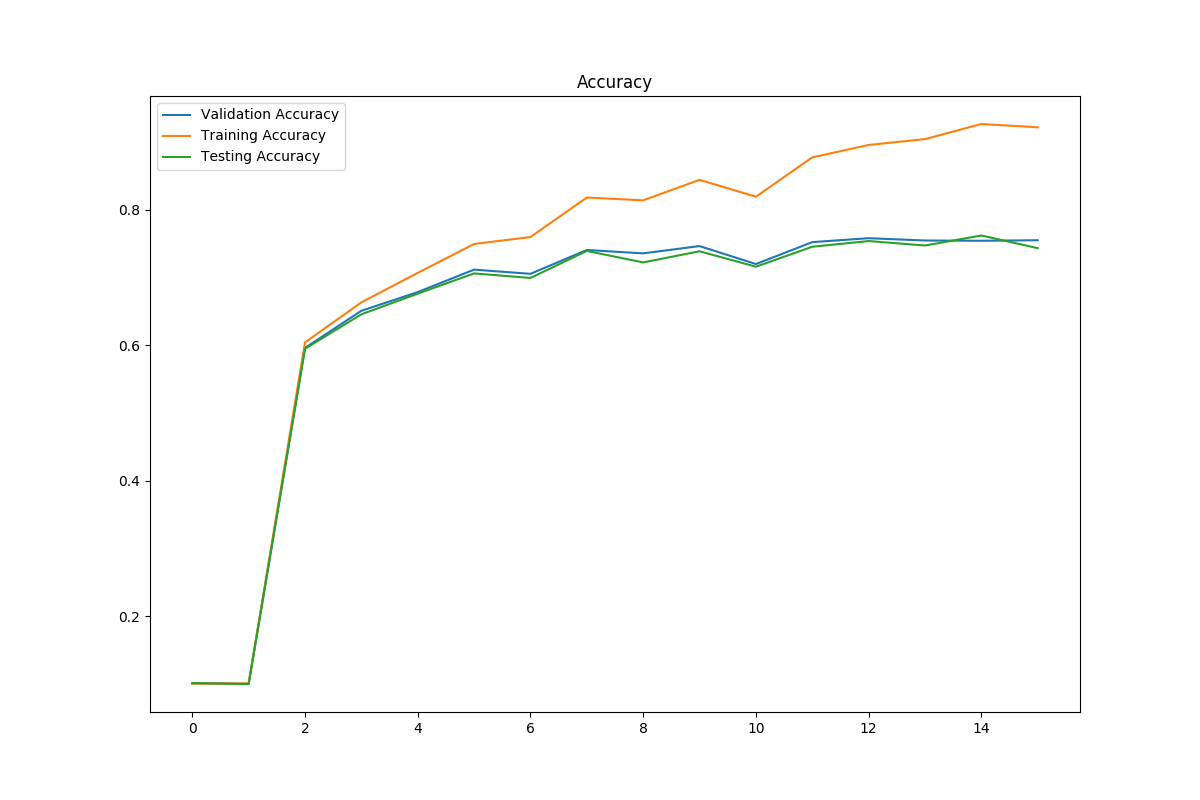
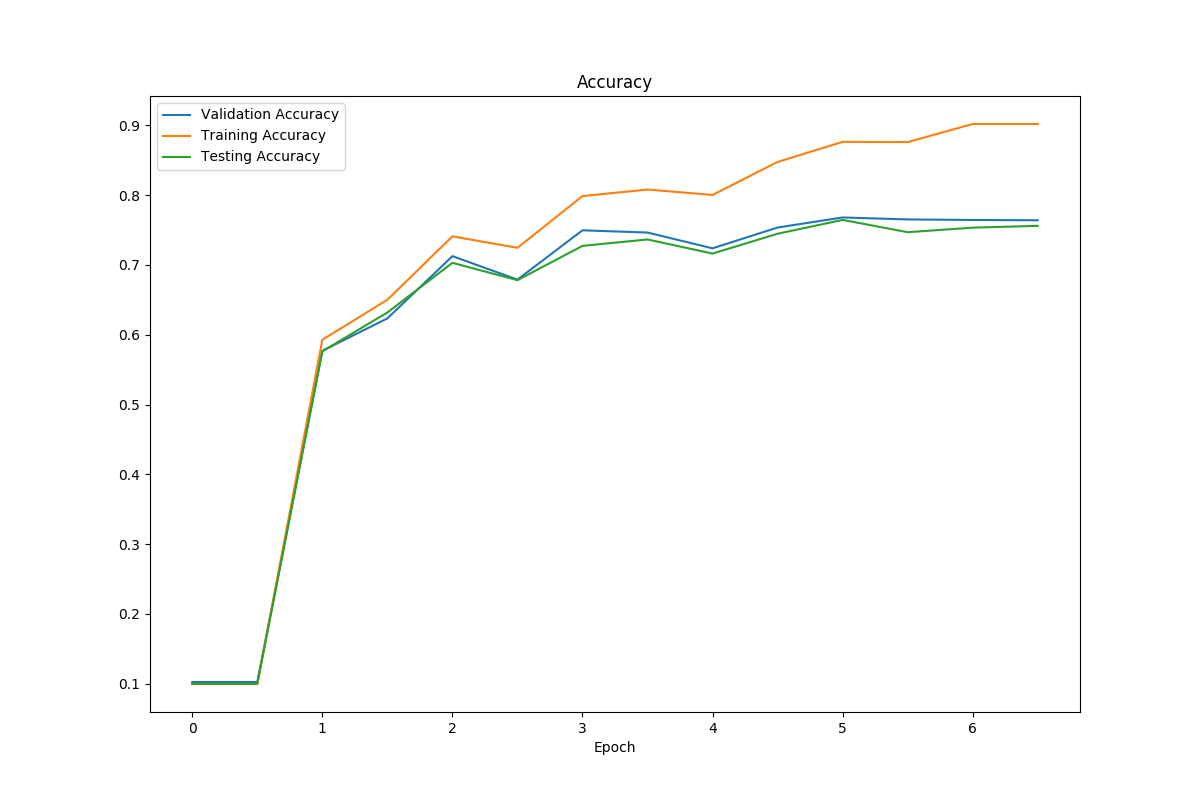
Completed ModelOne for task_2 and made some new plots

diff --git a/src/task_2.py b/src/task_2.py
@@ -4,6 +4,7 @@ import torch
 from torch import nn
 from dataloaders import load_cifar10
 from utils import to_cuda, compute_loss_and_accuracy
+from task_1 import LeNet
 
 class ModelTwo(nn.Module):
 
@@ -145,6 +146,140 @@ class ModelOne(nn.Module):
                 num_classes: Number of classes we want to predict (10)
         """
         super().__init__()
+        num_filters = 32  # Set number of filters in first conv layer
+        kernal_size = 5
+        padding_size = 2
+
+        conv_layers = []
+
+        conv_first = nn.Conv2d(
+                in_channels=image_channels,
+                out_channels=num_filters,
+                kernel_size=kernal_size,
+                stride=1,
+                padding=padding_size
+            )
+        
+        nn.init.xavier_uniform_(conv_first.weight)
+        conv_layers.append(conv_first)
+        
+        for i in range(1,6):
+            conv_layers.append(
+                nn.Conv2d(
+                in_channels=num_filters*(2**(i-1)),
+                out_channels=num_filters*(2**i),
+                kernel_size=kernal_size,
+                stride=1,
+                padding=padding_size
+                )
+            )
+            nn.init.xavier_uniform_(conv_layers[i].weight)
+
+        # Define the convolutional layers
+        self.feature_extractor = nn.Sequential(
+
+            conv_layers[0],
+        
+            torch.nn.Dropout2d(p=0.1, inplace=False),
+
+            torch.nn.BatchNorm2d(
+                num_filters*(2**0), 
+                eps=1e-05, 
+                momentum=0.1, 
+                affine=True, 
+                track_running_stats=True
+            ),
+            nn.ReLU(),
+
+            nn.MaxPool2d(kernel_size=2, stride=2),
+
+            conv_layers[1],
+            nn.ReLU(),
+            conv_layers[2],
+            nn.ReLU(),
+
+            nn.BatchNorm2d(
+                num_filters*(2**2), 
+                eps=1e-05, 
+                momentum=0.1, 
+                affine=True, 
+                track_running_stats=True
+            ),
+
+            nn.MaxPool2d(kernel_size=2, stride=2),
+
+            conv_layers[3],
+            nn.ReLU(),
+            conv_layers[4],
+            nn.ReLU(),
+
+            nn.BatchNorm2d(
+                num_filters*(2**4), 
+                eps=1e-05, 
+                momentum=0.1, 
+                affine=True, 
+                track_running_stats=True
+            ),
+
+            nn.MaxPool2d(kernel_size=2, stride=2)
+        )
+         # The output of feature_extractor will be [batch_size, num_filters*4, 4, 4]
+        self.num_output_features = (num_filters*(2**4)) * 4 * 4 # 2⁵ 2⁴ 2² 2² = 2^13
+        # Initialize our last fully connected layer
+        # Inputs all extracted features from the convolutional layers
+        # Outputs num_classes predictions, 1 for each class.
+        # There is no need for softmax activation function, as this is
+        # included with nn.CrossEntropyLoss
+        self.classifier = nn.Sequential(
+            nn.Linear(self.num_output_features, 2**8),
+            nn.ReLU(),
+            nn.Linear(2**8, 64),
+            nn.ReLU(),
+        
+            torch.nn.BatchNorm1d(
+                64, 
+                eps=1e-05, 
+                momentum=0.1, 
+                affine=True, 
+                track_running_stats=True
+            ),
+            
+            nn.Linear(64, num_classes)
+        )
+
+        #nn.init.xavier_uniform(self.feature_extractor.weight)
+        #torch.nn.init.xavier_uniform(self)
+        #self.feature_extractor.apply(nn.init.xavier_uniform)
+        #print(self)
+
+    def forward(self, x):
+        """
+        Performs a forward pass through the model
+        Args:
+            x: Input image, shape: [batch_size, 3, 32, 32]
+        """
+
+        # Run image through convolutional layers
+        x = self.feature_extractor(x)
+        # Reshape our input to (batch_size, num_output_features)
+        x = x.view(-1, self.num_output_features)
+        # Forward pass through the fully-connected layers.
+        x = self.classifier(x)
+        return x
+
+
+class ModelStride(nn.Module):
+
+    def __init__(self,
+                 image_channels,
+                 num_classes):
+        """
+            Is called when model is initialized.
+            Args:
+                image_channels. Number of color channels in image (3)
+                num_classes: Number of classes we want to predict (10)
+        """
+        super().__init__()
         num_filters = 32 # Set number of filters in all conv layers
         
 
@@ -239,15 +374,15 @@ class Trainer:
         # Define hyperparameters
         self.epochs = 100
         self.batch_size = 64
-        self.learning_rate = 1e-3
-        self.early_stop_count = 3
+        self.learning_rate = 1e-4
+        self.early_stop_count = 4
 
         # Architecture
 
         # Since we are doing multi-class classification, we use the CrossEntropyLoss
         self.loss_criterion = nn.CrossEntropyLoss()
         # Initialize the mode
-        self.model = ModelTwo(image_channels=3, num_classes=10)
+        self.model = ModelOne(image_channels=3, num_classes=10)
         # Transfer model to GPU VRAM, if possible.
         self.model = to_cuda(self.model)
 
@@ -257,10 +392,11 @@ class Trainer:
 
         # Load our dataset
         self.dataloader_train, self.dataloader_val, self.dataloader_test = load_cifar10(self.batch_size)
-
-        self.validation_check = len(self.dataloader_train) // 2
+        self.num_checks_per_epoch = 2
+        self.validation_check = len(self.dataloader_train) // self.num_checks_per_epoch
 
         # Tracking variables
+        self.TRAINING_EPOCH = []
         self.TRAINING_STEP = []
         self.VALIDATION_LOSS = []
         self.TEST_LOSS = []
@@ -269,13 +405,14 @@ class Trainer:
         self.VALIDATION_ACC = []
         self.TEST_ACC = []
 
-    def validation_epoch(self):
+    def validation_epoch(self, training_it=0, training_epoch=0):
         """
             Computes the loss/accuracy for all three datasets.
             Train, validation and test.
         """
+        self.TRAINING_EPOCH.append(training_epoch)
+        self.TRAINING_STEP.append(training_it)
         self.model.eval()
-
         # Compute for training set
         train_loss, train_acc = compute_loss_and_accuracy(
             self.dataloader_train, self.model, self.loss_criterion
@@ -320,7 +457,8 @@ class Trainer:
         """
         Trains the model for [self.epochs] epochs.
         """
-        
+        training_iteration = 0
+        plot_idx = 0
         # Track initial loss/accuracy
         self.validation_epoch()
         for epoch in range(self.epochs):
@@ -331,7 +469,7 @@ class Trainer:
                 # Transfer images / labels to GPU VRAM, if possible
                 X_batch = to_cuda(X_batch)
                 Y_batch = to_cuda(Y_batch)
-
+                training_iteration += 1
                 # Perform the forward pass
                 predictions = self.model(X_batch)
                 # Compute the cross entropy loss for the batch
@@ -347,7 +485,8 @@ class Trainer:
                 self.optimizer.zero_grad()
                  # Compute loss/accuracy for all thratasets.
                 if batch_it % self.validation_check == 0:
-                    self.validation_epoch()
+                    plot_idx += 1
+                    self.validation_epoch(training_iteration, plot_idx)
                     # Check early stopping criteria.
                     if self.should_early_stop():
                         print("Early stopping.")
@@ -358,13 +497,16 @@ if __name__ == "__main__":
     trainer = Trainer()
     trainer.train()
 
+    for i in range(len(trainer.TRAINING_EPOCH)):
+        trainer.TRAINING_EPOCH[i] = trainer.TRAINING_EPOCH[i] / trainer.num_checks_per_epoch
     os.makedirs("plots", exist_ok=True)
     # Save plots and show them
     plt.figure(figsize=(12, 8))
     plt.title("Cross Entropy Loss")
-    plt.plot(trainer.VALIDATION_LOSS, label="Validation loss")
-    plt.plot(trainer.TRAIN_LOSS, label="Training loss")
-    plt.plot(trainer.TEST_LOSS, label="Testing Loss")
+    plt.plot(trainer.TRAINING_EPOCH, trainer.VALIDATION_LOSS, label="Validation loss")
+    plt.plot(trainer.TRAINING_EPOCH, trainer.TRAIN_LOSS, label="Training loss")
+    plt.plot(trainer.TRAINING_EPOCH, trainer.TEST_LOSS, label="Testing Loss")
+    plt.xlabel("Epoch")
     plt.legend()
 
     plt.savefig(os.path.join("plots", "final_loss_task2.png"))
@@ -372,9 +514,10 @@ if __name__ == "__main__":
 
     plt.figure(figsize=(12, 8))
     plt.title("Accuracy")
-    plt.plot(trainer.VALIDATION_ACC, label="Validation Accuracy")
-    plt.plot(trainer.TRAIN_ACC, label="Training Accuracy")
-    plt.plot(trainer.TEST_ACC, label="Testing Accuracy")
+    plt.plot(trainer.TRAINING_EPOCH, trainer.VALIDATION_ACC, label="Validation Accuracy")
+    plt.plot(trainer.TRAINING_EPOCH, trainer.TRAIN_ACC, label="Training Accuracy")
+    plt.plot(trainer.TRAINING_EPOCH, trainer.TEST_ACC, label="Testing Accuracy")
+    plt.xlabel("Epoch")
     plt.legend()
     plt.savefig(os.path.join("plots", "final_accuracy_task2.png"))
     plt.show()

diff --git a/src/dimensions.py b/src/dimensions.py
@@ -25,3 +25,28 @@ h4, w4 = forward_dimensions(8, 8, 5, 2, 2)
 print("h4 = {}, w4 = {}".format(h4, w4))
 
 
+
+"""
+MED 3x3 kernal 13 epochs
+Final training accuracy: 0.9568444444444445
+Final validation accuracy: 0.7672
+Final test accuracy: 0.7612
+Final training loss: 0.13972859129055656
+Final validation loss: 0.7748675531224359
+Final test loss: 0.8320062149102521
+
+MED 5x5 kernal
+Final training accuracy: 0.9669555555555556
+Final validation accuracy: 0.755
+Final test accuracy: 0.7525
+Final training loss: 0.10689857551584613
+Final validation loss: 0.8635616091233266
+Final test loss: 0.9076087490008895
+
+MED 7x7 kernal 8-9 epochs
+Final training accuracy: 0.9391777777777778
+Final validation accuracy: 0.7488
+Final test accuracy: 0.7472
+Final training loss: 0.1914376855976033
+Final validation loss: 0.821383334790604
+Final test loss: 0.8252700068009128
